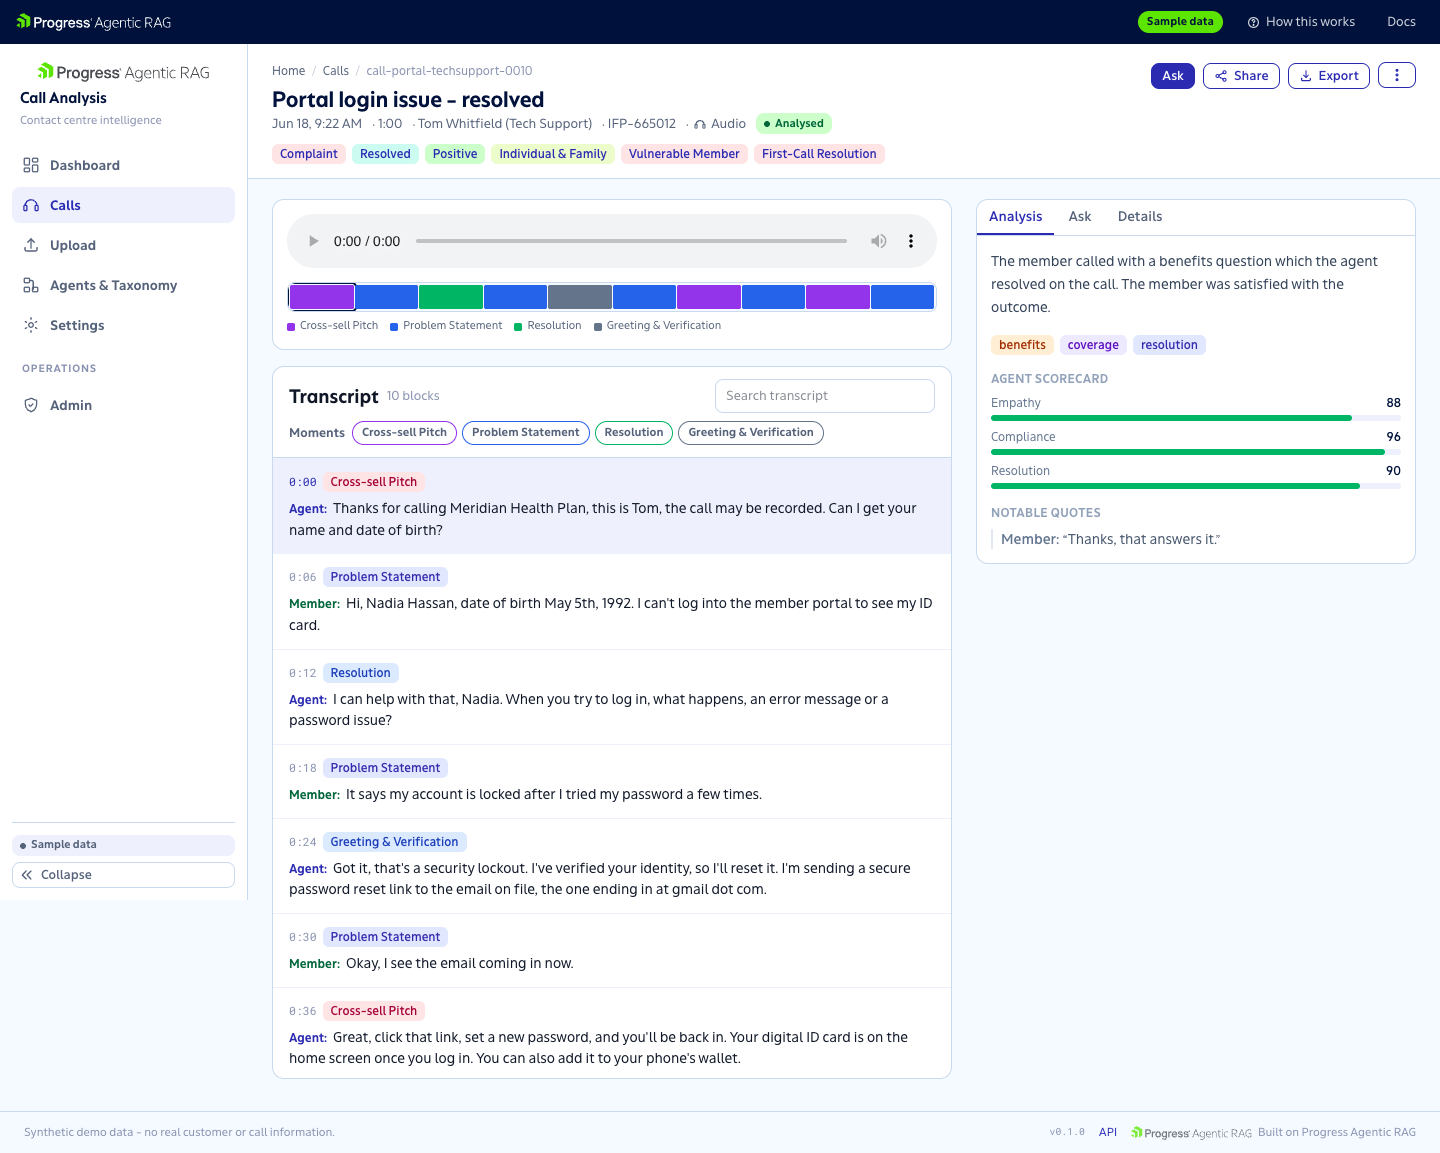
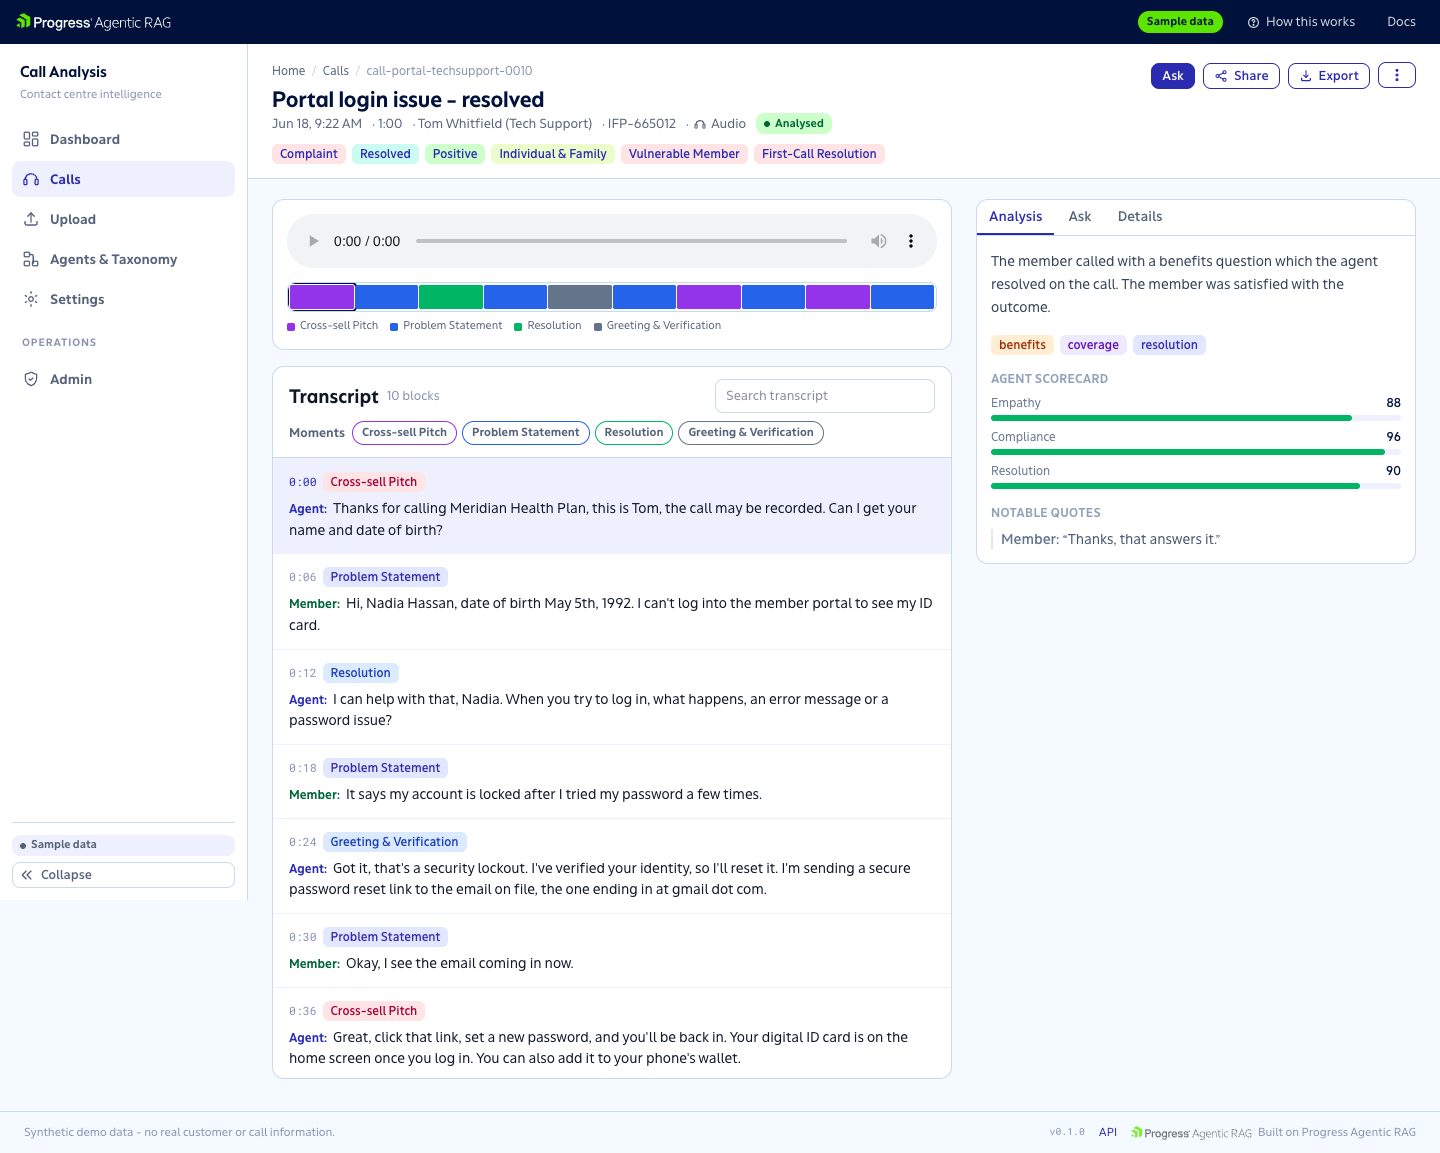
fix: the Progress wordmark appears once, in the band
The wordmark was rendered twice in the top-left corner — in the Progress band
and again at the head of the sidebar. Two copies of the same mark, stacked,
made the platform rather than the product read as the thing you are using.

- components/shell/Brandmark.tsx: `ProductIdent` carries the product's identity
  only — the partner logo when BRAND_LOGO_URL is set, then the product name and
  tagline. The Progress wordmark stays where it belongs: the band above and the
  footer credit below, both of which BRAND_POWERED_BY=0 removes together
- components/shell/AppShell.tsx: collapsed to the rail with no partner logo the
  identity block would render nothing, so it is omitted rather than left as
  empty padding above the nav (`hasIdent`)
- test/e2e/demo.spec.ts pins the rule: the sidebar carries the product name and
  tagline and no platform wordmark at all

Screenshots: all twelve after-*.png re-shot at 1440 px, and the showcase
re-recorded (20 screenshots, 2m24s take) since the sidebar is in every frame.

Verified: make check green (264 tests, 85.5% lines), 33/33 Playwright.

Claude-Session: https://claude.ai/code/session_01QUMEPj4JqUPxBgWoUVwonZ

Changed region(s): [[0.0, 0.0312, 0.125, 0.3747]]

diff --git a/components/shell/Brandmark.tsx b/components/shell/Brandmark.tsx
@@ -34,20 +34,19 @@ export function Wordmark({
 }
 
 /**
- * The identity block in the sidebar: partner logo if configured, otherwise the Progress wordmark,
- * with the product name and tagline beneath it either way.
+ * The identity block at the top of the sidebar: **the product's** identity, not the platform's.
+ *
+ * The Progress Agentic RAG wordmark belongs to the band above and the footer credit below, and is
+ * deliberately absent here — showing it in both places put the same mark twice in the top-left
+ * corner and made the platform, rather than the product, read as the thing you are using. What
+ * belongs here is the partner's logo when one is configured, and the product name and tagline.
  */
 export function ProductIdent({ branding, compact }: { branding: Branding; compact?: boolean }) {
-  // The Progress wordmark is a Progress-owned surface. `BRAND_POWERED_BY=0` removes the band, the
-  // footer credit AND this mark together, so a white-labelled deployment carries no Progress
-  // identity at all — not even as a placeholder where a partner has supplied no logo of their own.
-  const mark = branding.logoUrl ? "partner" : branding.poweredBy ? "progress" : "none";
   return (
     <>
-      {mark === "partner" && (
+      {branding.logoUrl && (
         <img src={branding.logoUrl} alt={branding.productName} style={{ height: 20, width: "auto" }} />
       )}
-      {mark === "progress" && <Wordmark height={compact ? 16 : 20} />}
       {!compact && (
         <>
           <span className="name">{branding.productName}</span>
@@ -56,4 +55,9 @@ export function ProductIdent({ branding, compact }: { branding: Branding; compac
       )}
     </>
   );
+}
+
+/** True when the sidebar identity block would render nothing at all (collapsed, no partner logo). */
+export function hasIdent(branding: Branding, compact?: boolean): boolean {
+  return Boolean(branding.logoUrl) || !compact;
 }

diff --git a/components/shell/AppShell.tsx b/components/shell/AppShell.tsx
@@ -18,7 +18,7 @@ import {
   IconUpload,
 } from "@/components/icons";
 import type { Branding } from "@/lib/branding";
-import { ProductIdent, Wordmark } from "./Brandmark";
+import { hasIdent, ProductIdent, Wordmark } from "./Brandmark";
 
 /**
  * The standing application shell: Progress band, left sidebar, page area, footer.
@@ -151,9 +151,13 @@ export function AppShell({ branding, children }: { branding: Branding; children:
 
   const sidebar = (rail: boolean, onNavigate?: () => void) => (
     <>
-      <Link href="/" className="ident" onClick={onNavigate}>
-        <ProductIdent branding={branding} compact={rail} />
-      </Link>
+      {/* Collapsed to the rail with no partner logo there is nothing to show, so the block is
+          omitted rather than left as empty padding above the nav. */}
+      {hasIdent(branding, rail) && (
+        <Link href="/" className="ident" onClick={onNavigate}>
+          <ProductIdent branding={branding} compact={rail} />
+        </Link>
+      )}
       <NavList items={PRODUCT_NAV} pathname={pathname} rail={rail} onNavigate={onNavigate} />
       {!rail && <div className="group">Operations</div>}
       <NavList items={OPERATIONS_NAV} pathname={pathname} rail={rail} onNavigate={onNavigate} />

diff --git a/test/e2e/demo.spec.ts b/test/e2e/demo.spec.ts
@@ -17,6 +17,13 @@ test.describe("the workspace", () => {
       await expect(sidebar.getByRole("link", { name: label, exact: true })).toBeVisible();
     }
 
+    // The Progress wordmark belongs to the band and the footer credit, and appears nowhere else:
+    // showing it in the sidebar too put the same mark twice in the top-left corner and made the
+    // platform, rather than the product, read as the thing you are using.
+    await expect(sidebar.getByAltText("Progress Agentic RAG")).toHaveCount(0);
+    await expect(sidebar.getByText("Call Analysis")).toBeVisible();
+    await expect(sidebar.getByText("Contact centre intelligence")).toBeVisible();
+
     // Navigation is real routing, and the active item follows the route.
     await sidebar.getByRole("link", { name: "Calls", exact: true }).click();
     await expect(page).toHaveURL(/\/calls/);
